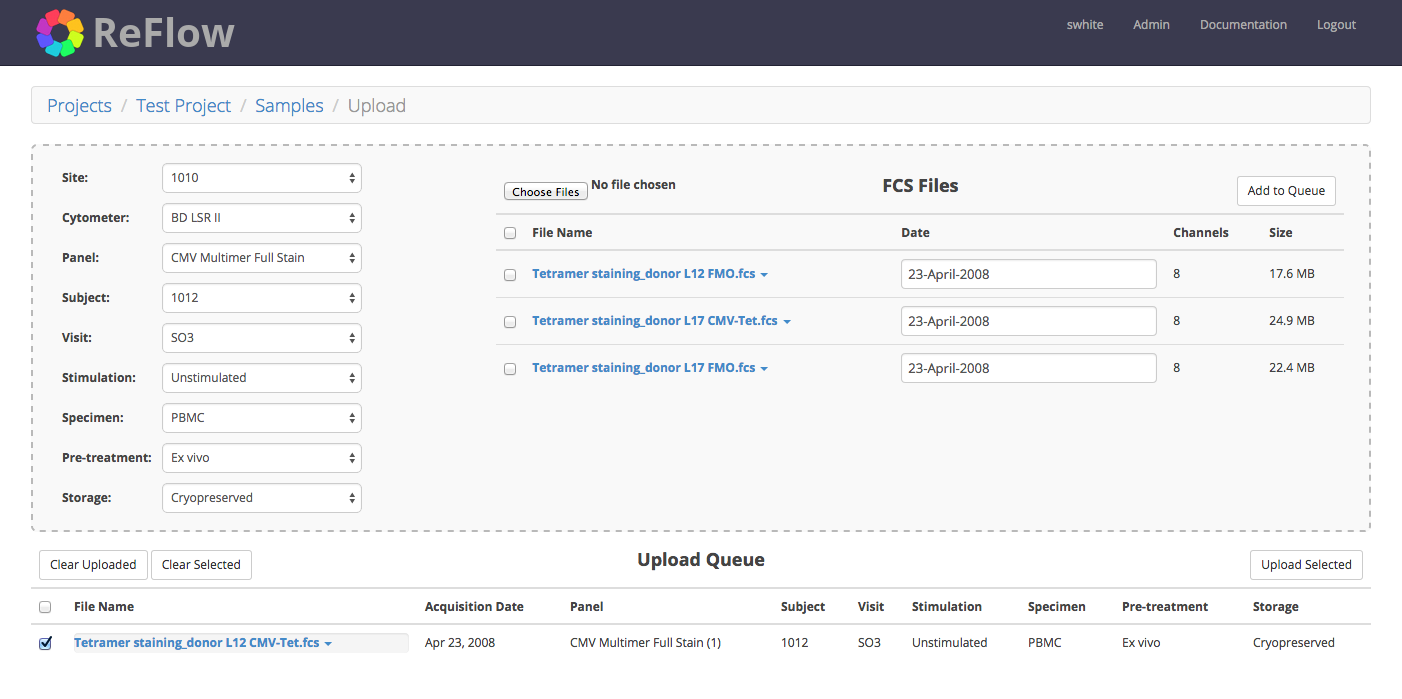
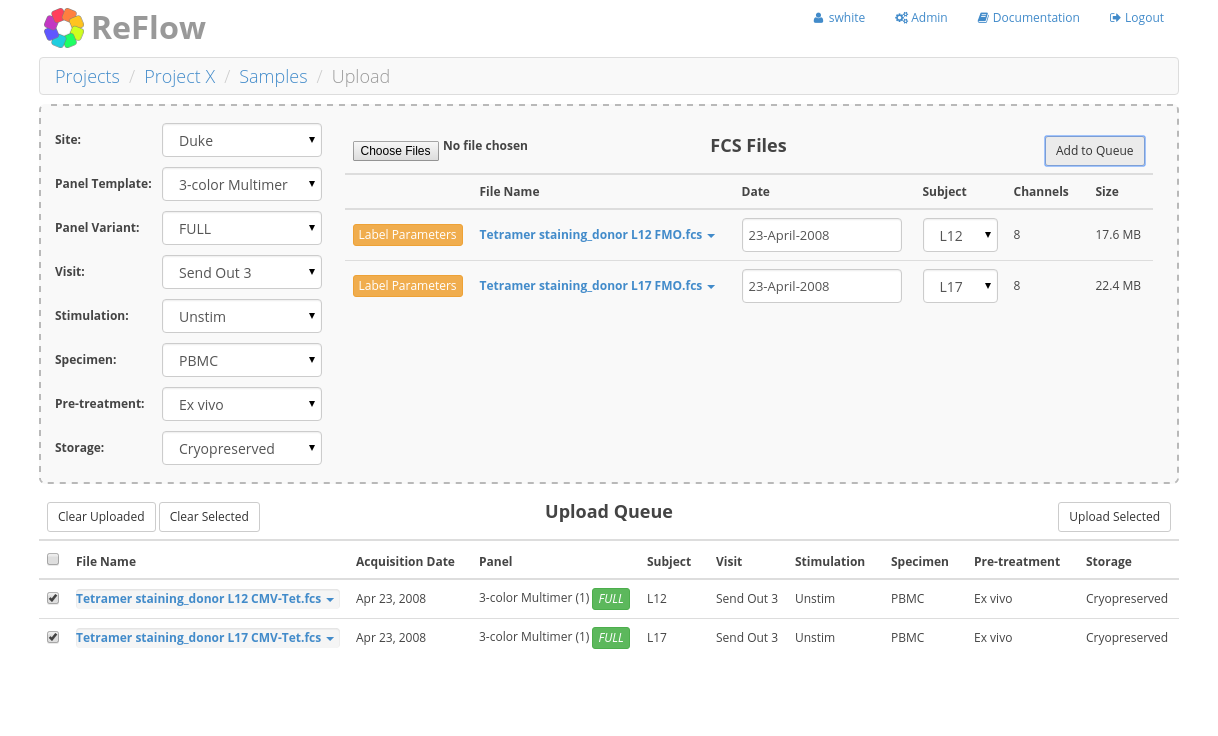
updated sample upload tutorial

diff --git a/docs/source/tutorials/upload-samples.rst b/docs/source/tutorials/upload-samples.rst
@@ -7,43 +7,62 @@ Tutorial - Uploading Samples
 
 #.  From the ReFlow home page, navigate to the project by clicking on the project link.
 
-    .. image:: ../images/project-detail.png
+#.  From the project detail page, navigate to the sample upload page by clicking the **Upload Samples** link located under the **Samples** heading.
 
-#.  From the project detail page, click the **Upload Samples** link to navigate to the sample upload page.
+    .. image:: ../images/project-detail.png
+       :width: 1000
+
+    .. note:: The sample upload page can also be reached from the **Sample** list page by clicking on the **Upload Samples** button located near the upper right of that page (beside the main heading).
+
+#.  To add FCS files, either drag and drop them anywhere in the light grey region (within the dashed-line border) or click on the **Choose Files** button to the left of the "FCS Files" heading.
 
     .. image:: ../images/sample-upload-blank.png
+       :width: 1000
 
-#.  To add FCS files, either drag and drop them anywhere within the light grey region with the dashed-line border or click on the **Choose Files** button to the left of the "FCS Files" heading.
-
-    The files should show up in **FCS Files** list. The file name is also a drop-down menu for viewing the metadata, the file's channel labels, and for removing a file from the list. The next column displays the acquisition date, which is pre-populated from the metadata if present. However, if the acquisition date field is not present in the FCS metadata, this value would need to be entered manually using the drop-down calendar menu. The last 2 columns are the channel count and file size, respectively.
+    The files should show up in **FCS Files** list. The file name is displayed in the first column (which is also a drop-down menu for viewing the metadata, viewing the file's channel labels, or removing a file from the list).
 
     .. image:: ../images/sample-upload-new-samples.png
+       :width: 1000
 
-#.  Choose the appropriate categories from the drop-down menus on the left for the first file in the list.
+#.  Ensure that the acquisition date and subject are correct. These 2 fields are auto-populated in an attempt to reduce the amount of user interaction when uploading large numbers of FCS files.
+
+    .. note:: The acquisition date is pre-populated from the metadata of each FCS file. However, if the acquisition date field is not present in the FCS metadata, this value would need to be entered manually using the drop-down calendar menu. The subject is auto-populated from the FCS file name, but should be verified by the user to make sure the correct subject code was selected.
+
+    .. image:: ../images/sample-upload-new-samples.png
+       :width: 1000
+
+#.  For the first file in the list, choose the appropriate site and panel template from the drop-down menus on the left. At this point, an orange **Label Parameters** button will appear beside the file name of FCS samples that do not match an existing Sample Annotation for this project. For samples that do have a matching Sample Annotation, then a checkbox will be displayed.
 
     .. image:: ../images/sample-upload-pre-site-panel.png
+       :width: 1000
 
-#.  Once all the category selections have been made, click the checkbox for the first file.
-
-    If ReFlow has previously seen a file with matching annotation for this site and panel template combination, it will automatically associate the file with that annotation. In this case, continue with the next step to add the file to the upload queue.
-
-    However, if this is the first time this annotation set has been seen by ReFlow, a new dialog window will appear to identify all the channels present in the file. In this case, follow the instructions in :doc:`../tutorials/labelling-fcs-data`
+#.  If a sample in the list has a **Label Parameters** button, click on it to open the sample annotation dialog window. Follow the instructions in :doc:`../tutorials/labelling-fcs-channels` to identify all the channels present in the file. Otherwise, if the file has a checkbox, then proceed to the next step.
 
     .. image:: ../images/sample-upload-create-site-panel.png
+       :width: 1000
 
-    .. note:: Any other files in the list that also match the categories can also be selected by clicking their checkboxes and adding the upload queue.
+#.  For FCS files with a checkbox to the left of their file name (i.e. files that ReFlow has matched to a Sample Annotation), continue choosing the appropriate selections from the various drop-down menus on the left site (Panel Variant, Visit, etc.).
+
+    .. image:: ../images/sample-upload-post-site-panel.png
+       :width: 1000
+
+#.  Once all the category selections have been made, click the checkbox for the files you wish to add to the upload queue.
+
+    .. image:: ../images/sample-upload-file-queue-selected.png
+       :width: 1000
 
 #.  Click the **Add to Queue** button and the file will be added to the upload queue below.
 
-    After adding to the upload queue
+    .. note:: If any of the categories have not been chosen, the **Add to Queue** button will not add the files to the queue. All the categories on the left, as well as the acquisition date and subject drop down menus, are required for all FCS files.
 
     .. image:: ../images/sample-upload-file-queued.png
+       :width: 1000
 
-#.  Once all the files have been added to the upload queue, verify they have been categorized correctly **before** uploading. If a file is categorized incorrectly, click on the file name and choose **Move to File List** from the drop-down menu. This will place the file back in the FCS File List above. From there it can be re-categorized and added back to the upload queue.
+#.  Once all the files have been added to the upload queue, verify they have been categorized correctly **before** uploading. If a file is categorized incorrectly, click on the file name and choose **Move to File List** from the drop-down menu. This will place the file back in the FCS file list above. From there it can be re-categorized and added back to the upload queue.
 
     .. image:: ../images/sample-upload-file-queue-menu.png
 
-12. Once all the files are correct, start uploading by clicking on the **Upload** button. For each file uploaded the progress bar for each file will update.
+12. Once all the files have been correctly categorized, select the files to upload by clicking their check boxes, then clicking on the **Upload Selected** button. A progress bar will be displayed showing the upload status for each file.
 
     .. image:: ../images/sample-upload-uploading.png
 

diff --git a/docs/source/site-nav.rst b/docs/source/site-nav.rst
@@ -152,8 +152,8 @@ To view or modify data for these categories requires superuser privileges. To na
 .. image:: images/admin-view.png
    :width: 1000
 
-Specimens
----------
+Specimen
+--------
 
 A specimen represents a type of biological tissue from which an FCS sample was acquired. There are several specimens included by default in ReFlow, but the list may be modified when deploying a ReFlow server. The default list includes:
 
@@ -167,7 +167,7 @@ PBMC  Peripheral Blood Mononuclear Cells
 WB    Whole Blood
 ====  ===========
 
-Workers
--------
+Worker
+------
 
 ReFlow workers are special user accounts used for automated analysis of FCS files. Workers do not have passwords, rather they authenticate to the ReFlow server via token authentication. They are deployed on remote computers with one or more NVIDIA GPUs. See the :doc:`../worker-setup`  for more information about setting up remote workers.

diff --git a/docs/source/tutorials/labelling-fcs-channels.rst b/docs/source/tutorials/labelling-fcs-channels.rst
@@ -1,5 +1,5 @@
-Tutorial - Labelling FCS Data
-=============================
+Tutorial - Labelling FCS Channels
+=================================
 
 .. note:: Labelling data is part of the FCS upload process for files with new annotation. See the tutorial on uploading data for more information. :doc:`../tutorials/upload-samples`
 

diff --git a/docs/source/tutorials-index.rst b/docs/source/tutorials-index.rst
@@ -15,4 +15,4 @@ Tutorials
    tutorials/add-visit-type
    tutorials/add-stimulation
    tutorials/upload-samples
-   tutorials/labelling-fcs-data
+   tutorials/labelling-fcs-channels
